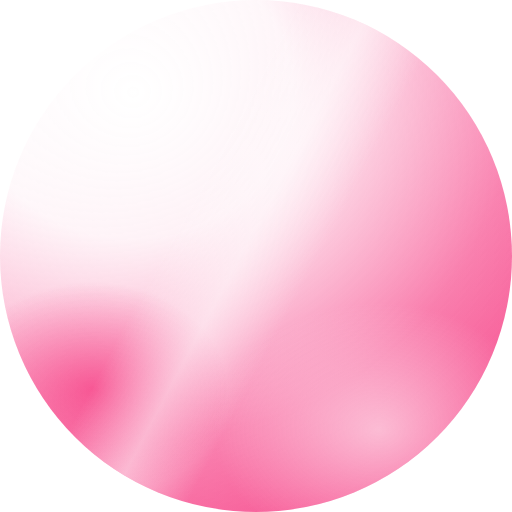
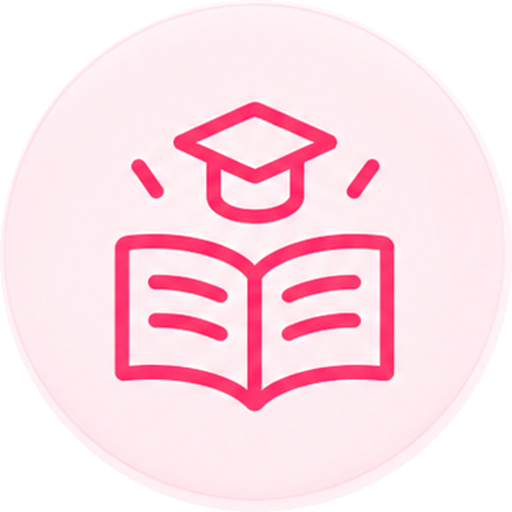
Iconos reales en las tarjetas de Servicios
Se sustituyen los círculos degradados provisionales por los iconos de
marca (birrete y libro, orador, portátil con código), recortados en
círculo con transparencia desde la lámina original. Al traer ya su
disco de color, el aro doble del contenedor se reduce a una sombra.

diff --git a/styles.css b/styles.css
@@ -562,12 +562,11 @@ button{ font:inherit; color:inherit; }
 
 /* imagen circular */
 .svc__photo{
-  width:clamp(58px,4.4vw,76px); height:clamp(58px,4.4vw,76px);
+  width:clamp(62px,4.9vw,86px); height:clamp(62px,4.9vw,86px);
   border-radius:50%; overflow:hidden; flex:0 0 auto;
   margin-bottom:clamp(14px,1.8vh,22px);
-  box-shadow:0 0 0 1px rgba(var(--accent-rgb),.18),
-             0 0 0 8px rgba(var(--accent-rgb),.07),
-             0 14px 26px -14px rgba(var(--accent-rgb),.5);
+  /* la imagen ya trae su disco de color: sólo se le da apoyo con sombra */
+  box-shadow:0 12px 24px -14px rgba(var(--accent-rgb),.55);
 }
 .svc__photo img{ width:100%; height:100%; object-fit:cover; display:block; }
 
@@ -618,7 +617,7 @@ button{ font:inherit; color:inherit; }
 @media (max-height:900px){
   .services{ padding-top:calc(var(--header-h) + 10px); padding-bottom:clamp(22px,3vh,42px); }
   .svc{ padding:clamp(16px,1.4vw,24px); border-radius:20px; }
-  .svc__photo{ width:clamp(50px,3.6vw,62px); height:clamp(50px,3.6vw,62px); margin-bottom:12px; }
+  .svc__photo{ width:clamp(54px,4vw,70px); height:clamp(54px,4vw,70px); margin-bottom:12px; }
   .svc__text{ margin-bottom:14px; }
   .svc__list{ gap:5px; }
   .svc__list li{ padding:6px 11px; border-radius:11px; }
@@ -634,7 +633,7 @@ button{ font:inherit; color:inherit; }
   .svc__kicker{ grid-area:kicker; margin:12px 0 10px; }
   .svc__text{ grid-area:texto; }
   .svc__list{ grid-area:lista; }
-  .svc__photo{ width:46px; height:46px; margin-bottom:10px; }
+  .svc__photo{ width:52px; height:52px; margin-bottom:10px; }
   .svc__title{ font-size:clamp(20px,1.6vw,26px); }
   .svc__kicker{ margin-bottom:10px; }
   .svc__text{ font-size:13px; line-height:1.52; margin-bottom:12px; }
@@ -650,7 +649,7 @@ button{ font:inherit; color:inherit; }
 }
 
 @media (max-height:700px){
-  .svc__photo{ width:40px; height:40px; }
+  .svc__photo{ width:46px; height:46px; }
   .svc__text{
     display:-webkit-box; -webkit-line-clamp:2; -webkit-box-orient:vertical;
     overflow:hidden; margin-bottom:10px;
